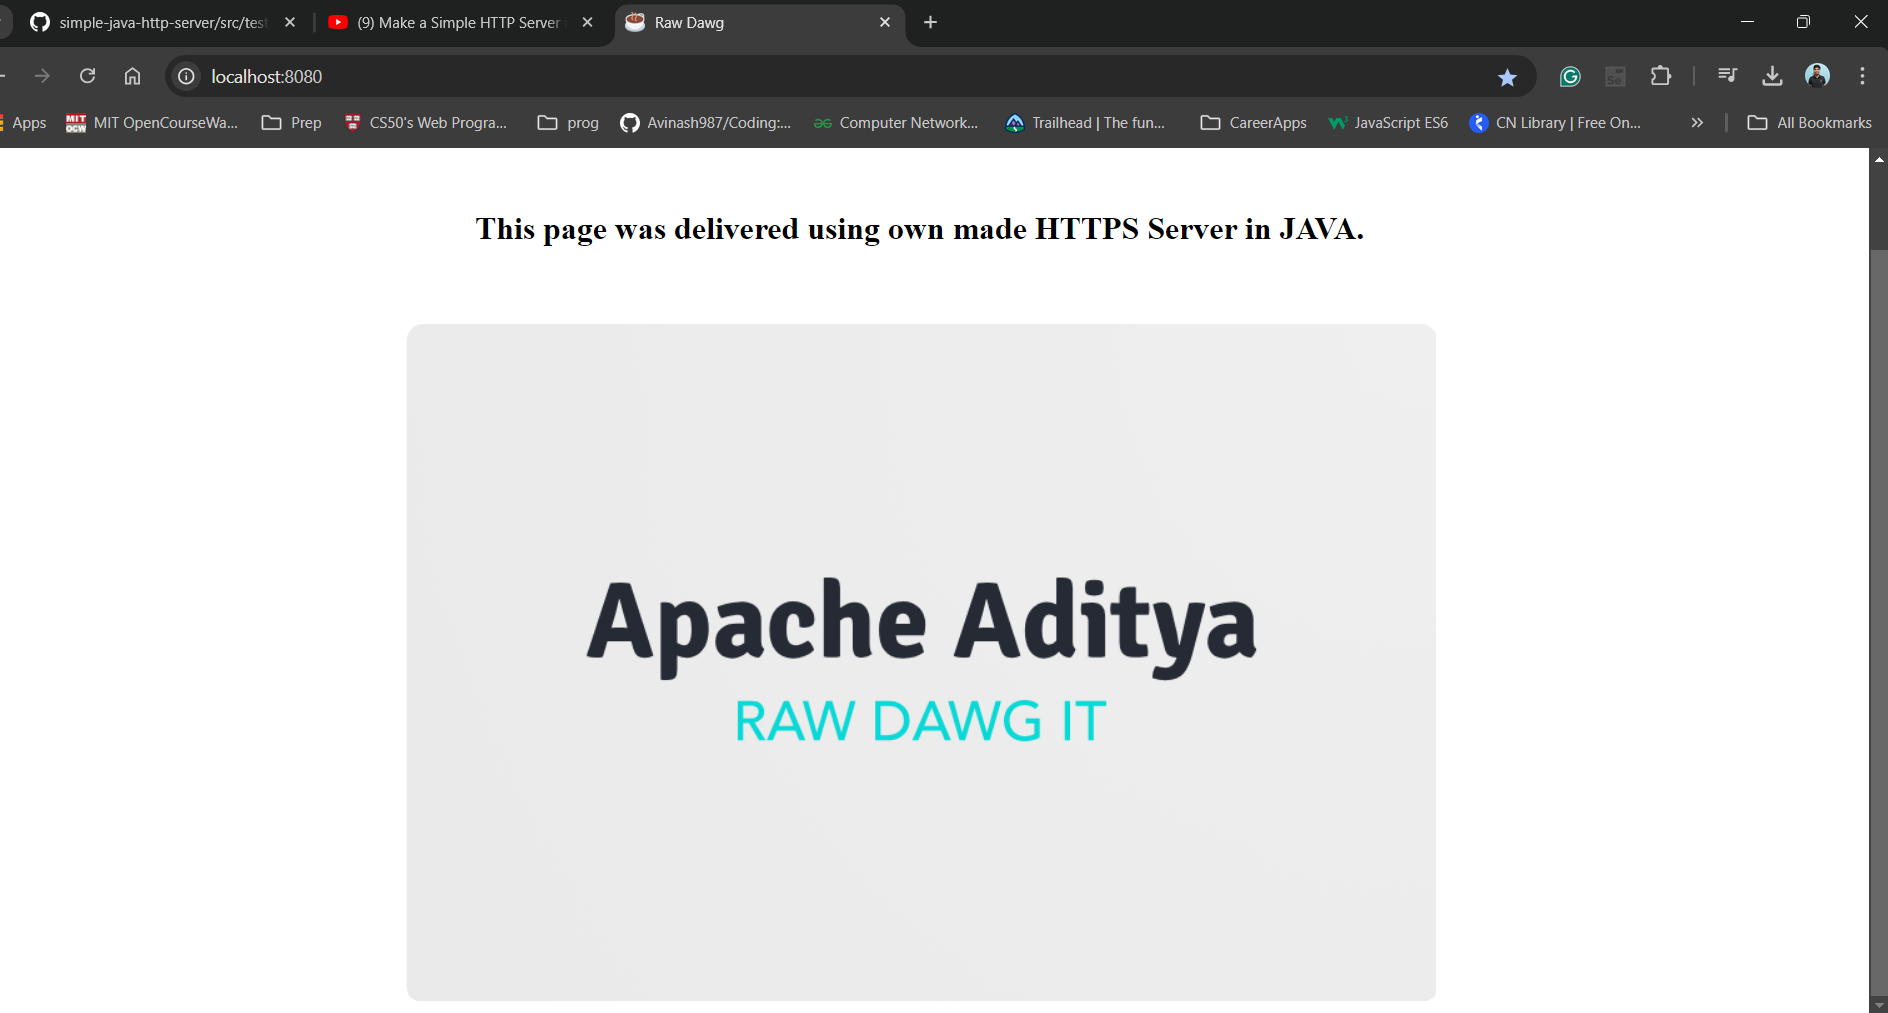
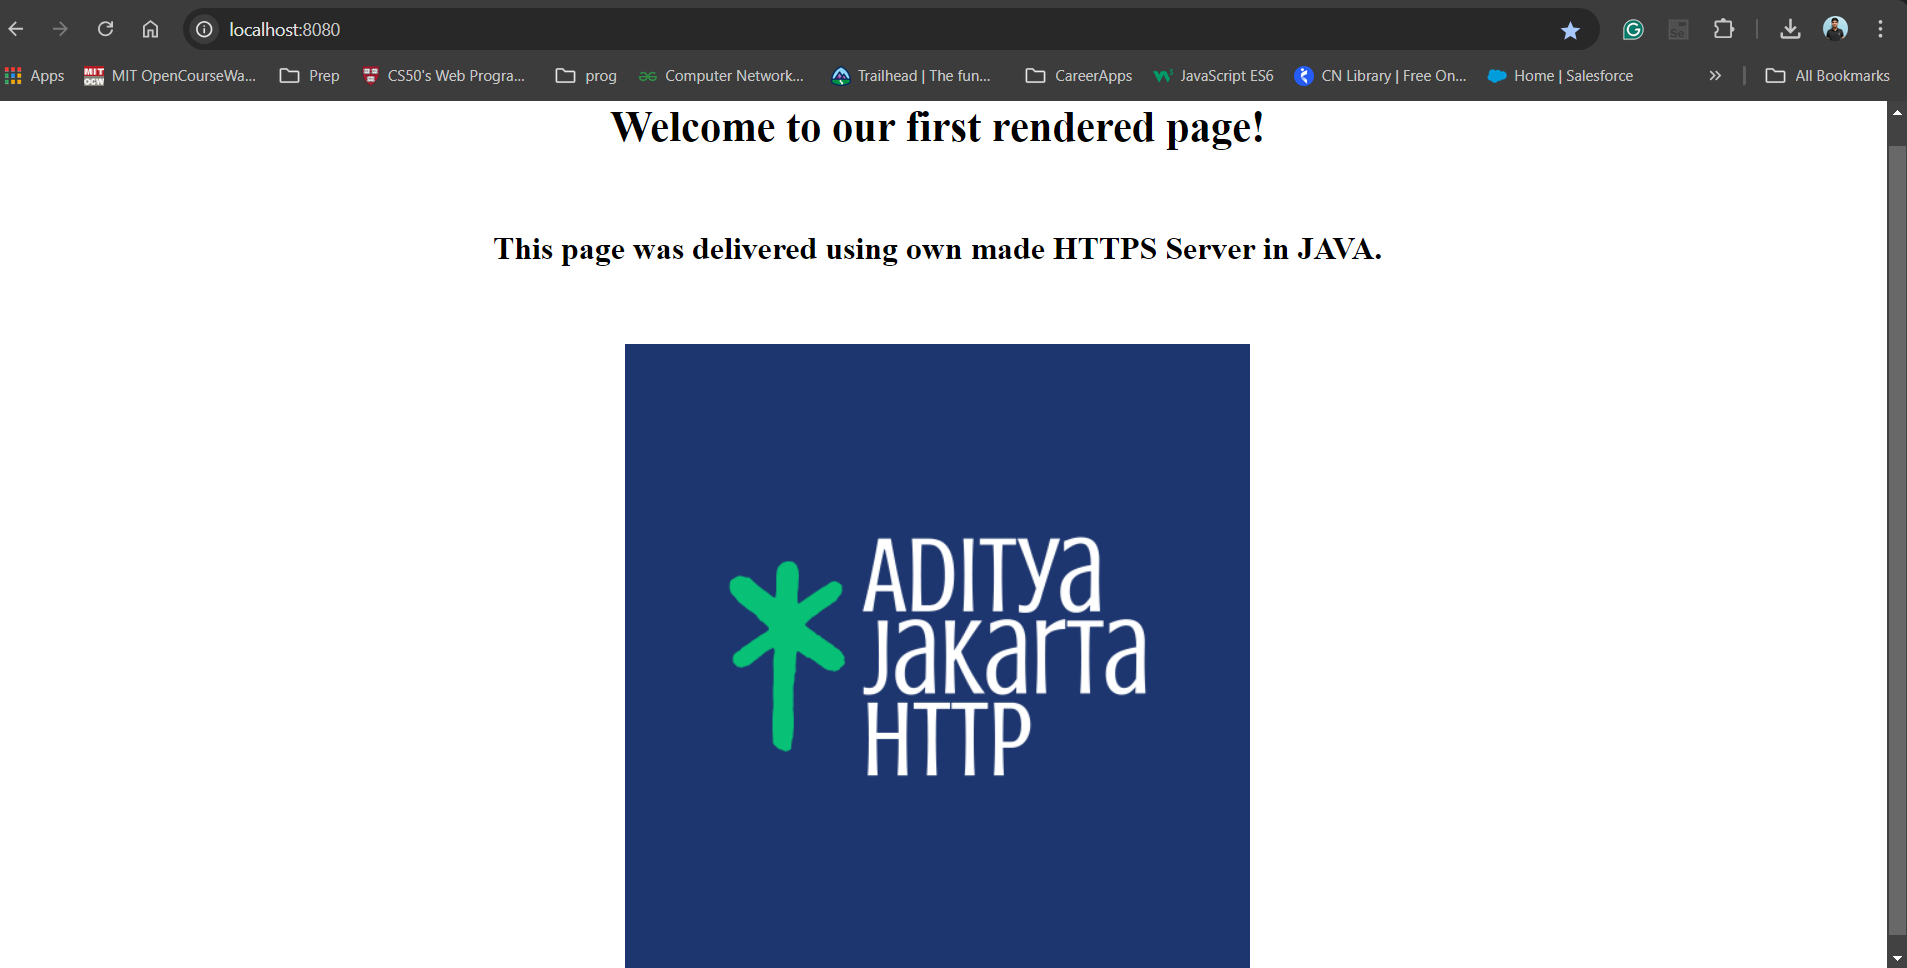
Commit with error handling in Worker thread file

diff --git a/WebRoot/index.html b/WebRoot/index.html
@@ -2,7 +2,7 @@
 <html lang="en">
 <head>
     <meta charset="UTF-8">
-    <title>Raw Dawg</title>
+    <title>Aditya Jakarta HTTP</title>
     <style>
         body {
         text-align: center;

diff --git a/src/main/java/org/example/httpserver/core/HttpConnectionWorkerThread.java b/src/main/java/org/example/httpserver/core/HttpConnectionWorkerThread.java
@@ -101,19 +101,29 @@ public class HttpConnectionWorkerThread extends Thread {
 
     private HttpResponse handleRequest(HttpRequest req) {
 
-        switch (req.getMethod()) {
-            case GET:
-                LOGGER.info(" * GET Request");
-                return handleGetRequest(req, true);
-            case HEAD:
-                LOGGER.info(" * HEAD Request");
-                return handleGetRequest(req, false);
-            default:
-                return new HttpResponse.Builder()
-                        .httpVersion(req.getCompatibleVersion().LITERAL)
-                        .statusCode(HttpStatusCode.SERVER_ERROR_501_NOT_IMPLEMENTED)
-                        .build();
+        HttpMethod method = req.getMethod();
+
+        if(method == null) {
+            return new HttpResponse.Builder()
+                    .httpVersion(req.getCompatibleVersion().LITERAL)
+                    .statusCode(HttpStatusCode.SERVER_ERROR_501_NOT_IMPLEMENTED)
+                    .build();
         }
+
+        return switch (req.getMethod()) {
+            case GET -> {
+                LOGGER.info(" * GET Request");
+                yield handleGetRequest(req, true);
+            }
+            case HEAD -> {
+                LOGGER.info(" * HEAD Request");
+                yield handleGetRequest(req, false);
+            }
+            default -> new HttpResponse.Builder()
+                    .httpVersion(req.getCompatibleVersion().LITERAL)
+                    .statusCode(HttpStatusCode.SERVER_ERROR_501_NOT_IMPLEMENTED)
+                    .build();
+        };
     }
 
     private HttpResponse handleGetRequest(HttpRequest req, boolean setMessageBody) {
